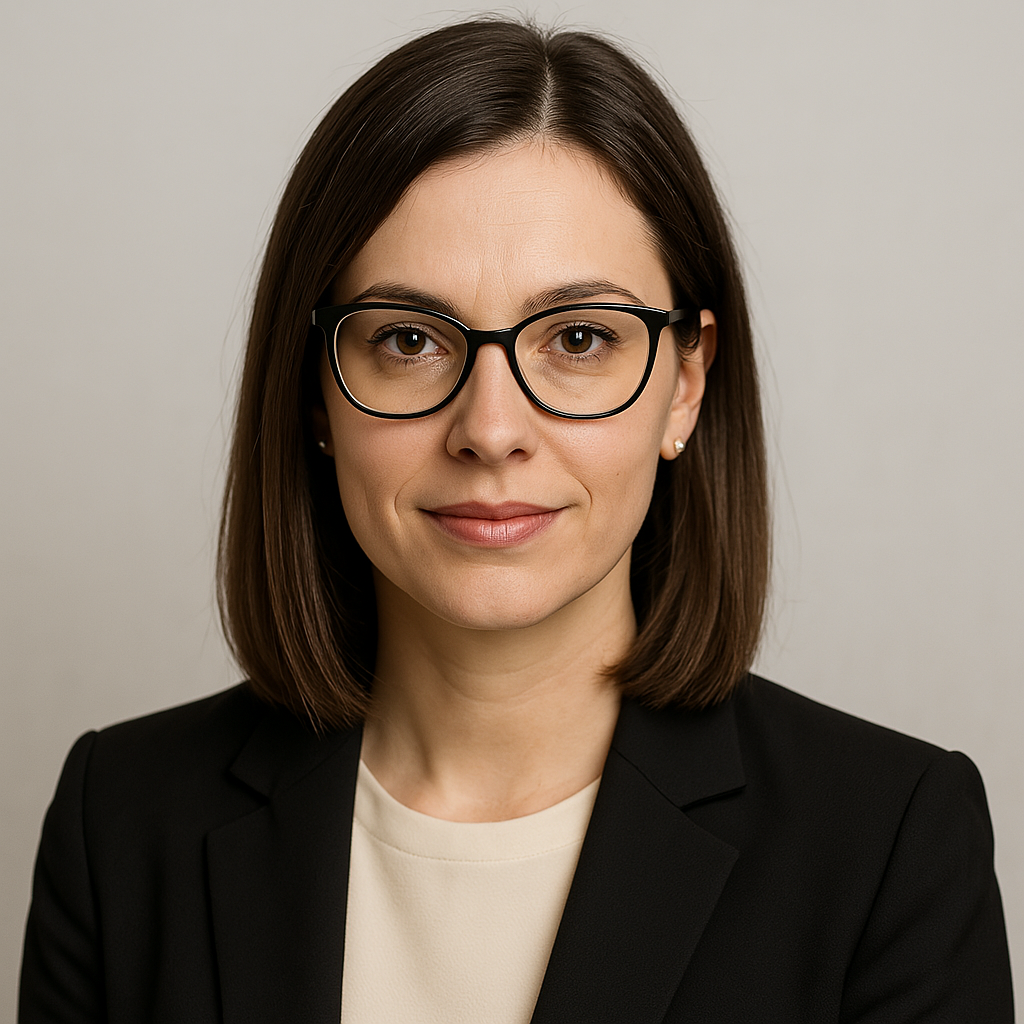
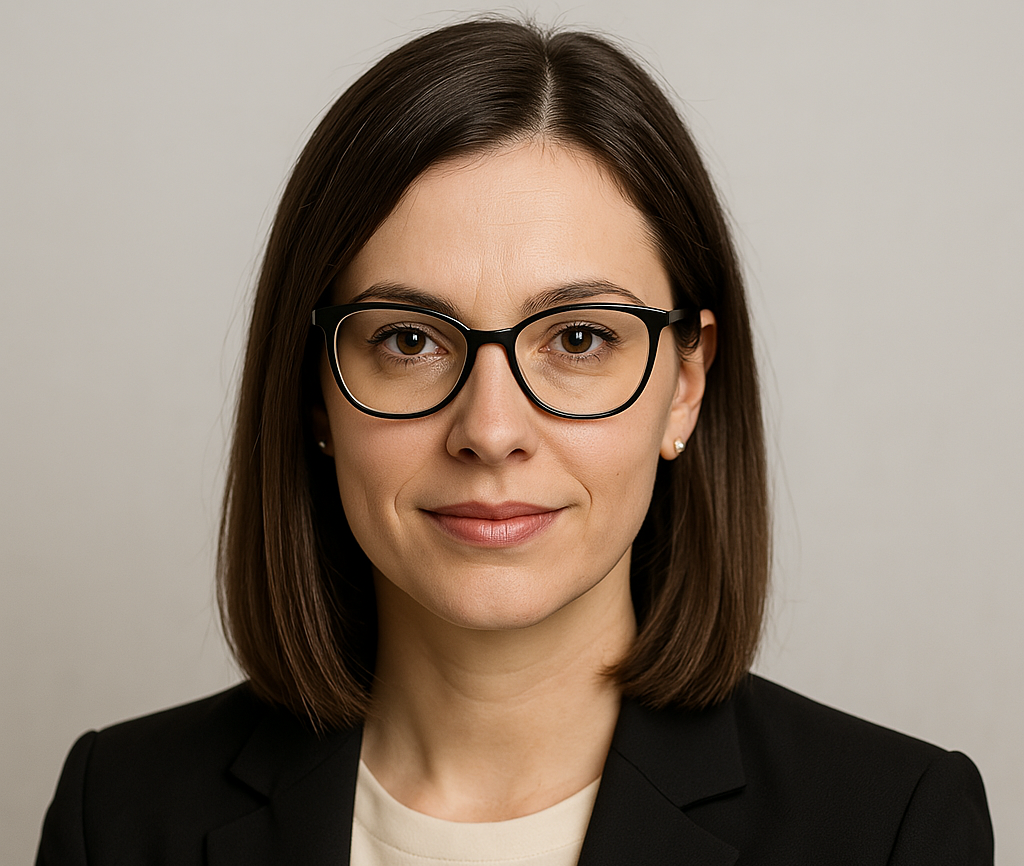
Atualizando a Aula 9 😜🖐🤚

diff --git a/aula9/index.html b/aula9/index.html
@@ -12,7 +12,7 @@
     .img{
       width: 100%;
     height: 100%;
-    max-height: 665px;
+    max-height: auto;
     object-fit: cover;
     }
   
@@ -20,7 +20,7 @@
 
 <body data-bs-spy="scroll" data-bs-target="#navbar" data-bs-offset="70" tabindex="0">
 
-  <nav id="navbar" class="navbar navbar-expand-lg navbar-dark bg-dark fixed-top mt-6">
+  <nav id="navbar" class="navbar navbar-expand-lg navbar-dark bg-dark fixed-top ">
     <div class="container-fluid">
       <a class="navbar-brand" href="#inicio">TechNova</a>
       <button class="navbar-toggler" type="button" data-bs-toggle="collapse" data-bs-target="#navbarNav">
@@ -37,14 +37,14 @@
     </div>
   </nav>
 
-  <section id="inicio" class="vh-100 d-flex align-items-center justify-content-center bg-light text-center">
+  <section id="inicio" class="vh-10 d-flex align-items-center justify-content-center bg-light text-center">
     <div>
         <img class="img" src="/aula9/images/ChatGPT Image 10 de abr. de 2025, 20_00_00.png">
     </div>
   </section>
 
-  <section id="servicos" class="container py-5">
-    <h2 class="text-center mb-4">Serviços</h2>
+  <section id="servicos" class="container ">
+    <h2 class="text-center mb-2">Serviços</h2>
     <ul class="nav nav-tabs" id="servicosTab" role="tablist">
       <li class="nav-item" role="presentation">
         <button class="nav-link active" id="web-tab" data-bs-toggle="tab" data-bs-target="#web" type="button">Web</button>
@@ -66,14 +66,14 @@
       <div class="tab-pane fade" id="consultoria">Consultoria especializada em transformação digital.</div>
     </div>
   </section>
->
-  <section id="equipe" class="bg-light py-5">
+
+  <section id="equipe" class="bg-light py-3">
     <div class="container">
       <h2 class="text-center mb-4">Nossa Equipe</h2>
       <div class="row g-4">
         <div class="col-md-3">
           <div class="card">
-            <img src="/aula9/images/ana.png" class="card-img-top img2" alt="Membro 1">
+            <img src="/aula9/images/ana.png" class="card-img-top " alt="Membro 1">
             <div class="card-body">
               <h5 class="card-title">Ana Silva</h5>
               <p class="card-text">CEO</p>
@@ -96,7 +96,7 @@
         </div>
         <div class="col-md-3">
           <div class="card">
-            <img src="/aula9/images/bruno.png" class="card-img-top img2" alt="Bruno Costa">
+            <img src="/aula9/images/bruno.png" class="card-img-top " alt="Bruno Costa">
             <div class="card-body">
               <h5 class="card-title">Bruno Costa</h5>
               <p class="card-text">CTO</p>
@@ -121,7 +121,7 @@
 
         <div class="col-md-3">
           <div class="card">
-            <img src="/aula9/images/larissa.jpg" class="card-img-top img2" alt="Larissa Mendes">
+            <img src="/aula9/images/larissa.jpg" class="card-img-top" alt="Larissa Mendes">
             <div class="card-body">
               <h5 class="card-title">Larissa Mendes</h5>
               <p class="card-text">UX/UI Designer</p>
@@ -146,7 +146,7 @@
 
         <div class="col-md-3">
           <div class="card">
-            <img src="/aula9/images/pedro.png" class="card-img-top img2" alt="Pedro Almeida">
+            <img src="/aula9/images/pedro.png" class="card-img-top" alt="Pedro Almeida">
             <div class="card-body">
               <h5 class="card-title">Pedro Almeida</h5>
               <p class="card-text">Gerente de Projetos</p>
